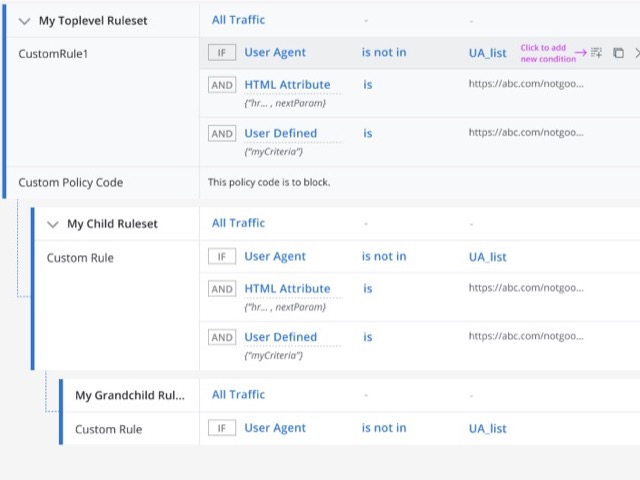
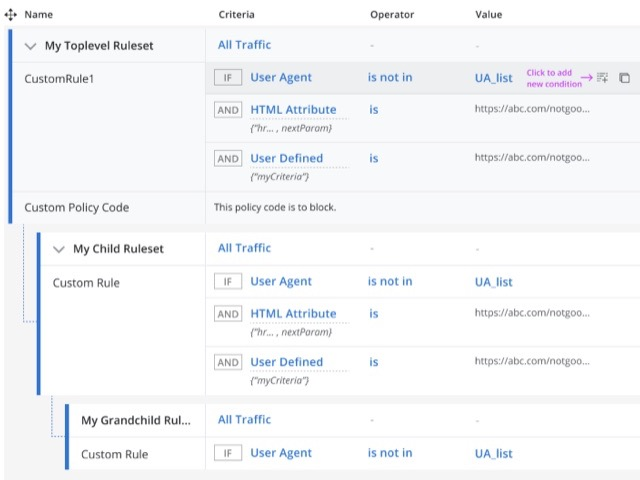
Frame the work thumbnails instead of bleeding them
Recrop both details from a real corner of the interface and inset them
on the stone panel, running off the far edges, so each reads as a framed
detail. The confidential AI card puts its label at the top and a larger,
thinner quote at the bottom.

diff --git a/index.html b/index.html
@@ -84,10 +84,13 @@ h3{font-size:1.0625rem;font-weight:400;line-height:1.4}
 .cards{list-style:none;margin:0;padding:0;display:grid;grid-template-columns:repeat(2,minmax(0,1fr));gap:3rem 2rem}
 .card{display:block}
 .thumb{position:relative;aspect-ratio:4/3;background:var(--tile);overflow:hidden;margin-bottom:1rem}
-.thumb img{position:absolute;inset:-5% 0;width:100%;height:110%;max-width:none;object-fit:cover;object-position:left top;transition:scale .7s cubic-bezier(.2,.7,.2,1)}
-.card:hover .thumb img{scale:1.04}
-.thumb.words{display:flex;flex-direction:column;justify-content:space-between;padding:1.25rem 1.25rem 1rem}
-.thumb.words .q{font-size:clamp(1.25rem,1.9vw,1.5rem);line-height:1.3;color:var(--ink);text-indent:-.35em}
+/* The screenshot is inset from one clean corner and runs off the other two
+   edges, so it reads as a framed detail, not a slice */
+.thumb img{position:absolute;top:9%;left:8%;width:112%;max-width:none;height:auto;transform-origin:left top;transition:scale .7s cubic-bezier(.2,.7,.2,1)}
+.thumb.tr img{left:auto;right:8%;transform-origin:right top}
+.card:hover .thumb img{scale:1.03}
+.thumb.words{display:flex;flex-direction:column;justify-content:space-between;padding:1.5rem 8% 1.25rem}
+.thumb.words .q{font-size:clamp(1.5rem,2.6vw,2.25rem);font-weight:200;line-height:1.2;letter-spacing:-.015em;color:var(--ink);text-indent:-.35em}
 .card h3 span{text-decoration:underline;text-decoration-color:transparent;text-decoration-thickness:1px;text-underline-offset:.3em}
 .card:hover h3 span{text-decoration-color:var(--accent)}
 .card h3+p{margin-top:.375rem}
@@ -229,7 +232,7 @@ html.lenis,html.lenis body{height:auto}
         <ul class="cards">
           <li>
             <a class="card" href="mailto:chetanshridhar@gmail.com?subject=Walkthrough%20request%3A%20AI%20chat%20tool%20and%20MCP%20apps">
-              <div class="thumb words"><p class="q">“What do I need to focus on today?”</p><p class="meta">Confidential. Walkthrough on request.</p></div>
+              <div class="thumb words"><p class="meta">Confidential. Walkthrough on request.</p><p class="q">“What do I need to focus on today?”</p></div>
               <h3><span>AI chat tool and MCP apps</span></h3>
               <p>An AI workspace for investment teams, and the apps that run inside it.</p>
               <p class="meta">Fintech. Ask for a walkthrough</p>
@@ -245,7 +248,7 @@ html.lenis,html.lenis body{height:auto}
           </li>
           <li>
             <a class="card" href="https://chetanshridhar.in/project/regression-testing-app">
-              <div class="thumb"><img src="assets/img/regression-testing-detail.jpg" width="560" height="420" alt="Detail of the regression testing tool: recent test suites marked running, passed and failed"></div>
+              <div class="thumb tr"><img src="assets/img/regression-testing-detail.jpg" width="736" height="552" alt="Detail of the regression testing tool: recent test suites marked running, passed and failed"></div>
               <h3><span>Regression Web Testing</span></h3>
               <p>Engineers test configuration changes on staging before they reach production.</p>
               <p class="meta">Akamai Technologies</p>

diff --git a/CLAUDE.md b/CLAUDE.md
@@ -68,9 +68,13 @@ terminal:
   screenshots carry the design. Each screenshot sits on a soft `--tile` mat
   (`.mat`) with no border or shadow. Do not draw or invent interface art,
   icons or decorative SVG.
-- **Selected work** is cards, two per row (one on phones). A thumbnail is a tight 4:3 crop of one telling detail of the real
-  screen (`assets/img/*-detail.jpg`), never the whole mock-up; it zooms
-  slightly on hover. Confidential work gets a text-only card on the tile.
+- **Selected work** is cards, two per row (one on phones). A thumbnail is a 4:3 crop of one telling detail of the real
+  screen (`assets/img/*-detail.jpg`), never the whole mock-up. The crop
+  starts at a real corner of the interface; on the `--tile` panel it is inset
+  from that corner (`.thumb`, or `.thumb.tr` for top-right) and runs off the
+  other edges, so it reads as framed, never bled into the page. It zooms
+  slightly on hover. Confidential work gets a text-only card: label at the
+  top, a large thin quote at the bottom.
 - **AI comes first** after the intro: one lead line about skill and
   judgement, then two groups ("Designing AI", "Building with AI"), each with
   its subhead on the left and items in an aligned two-column grid. No
